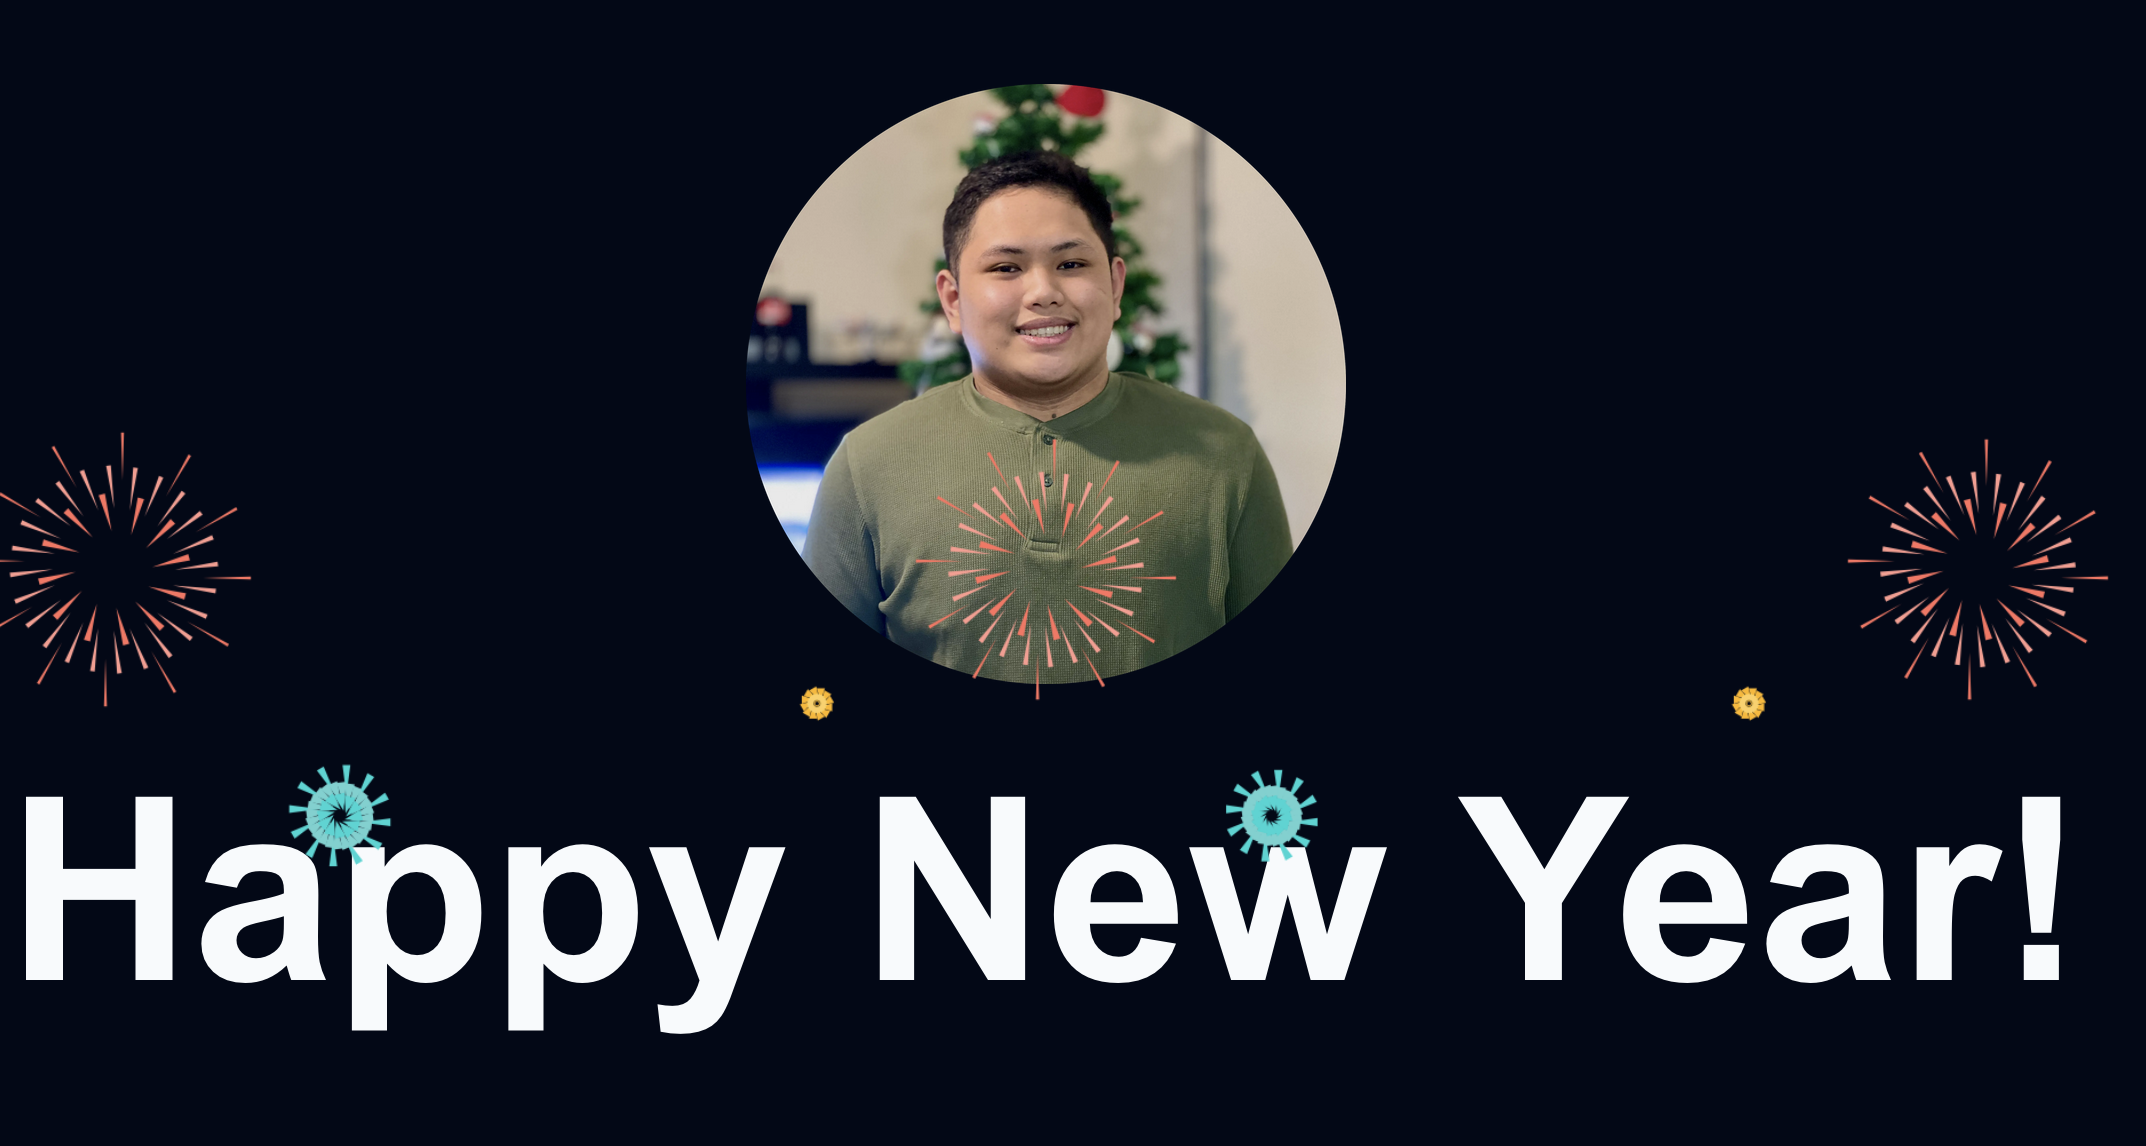
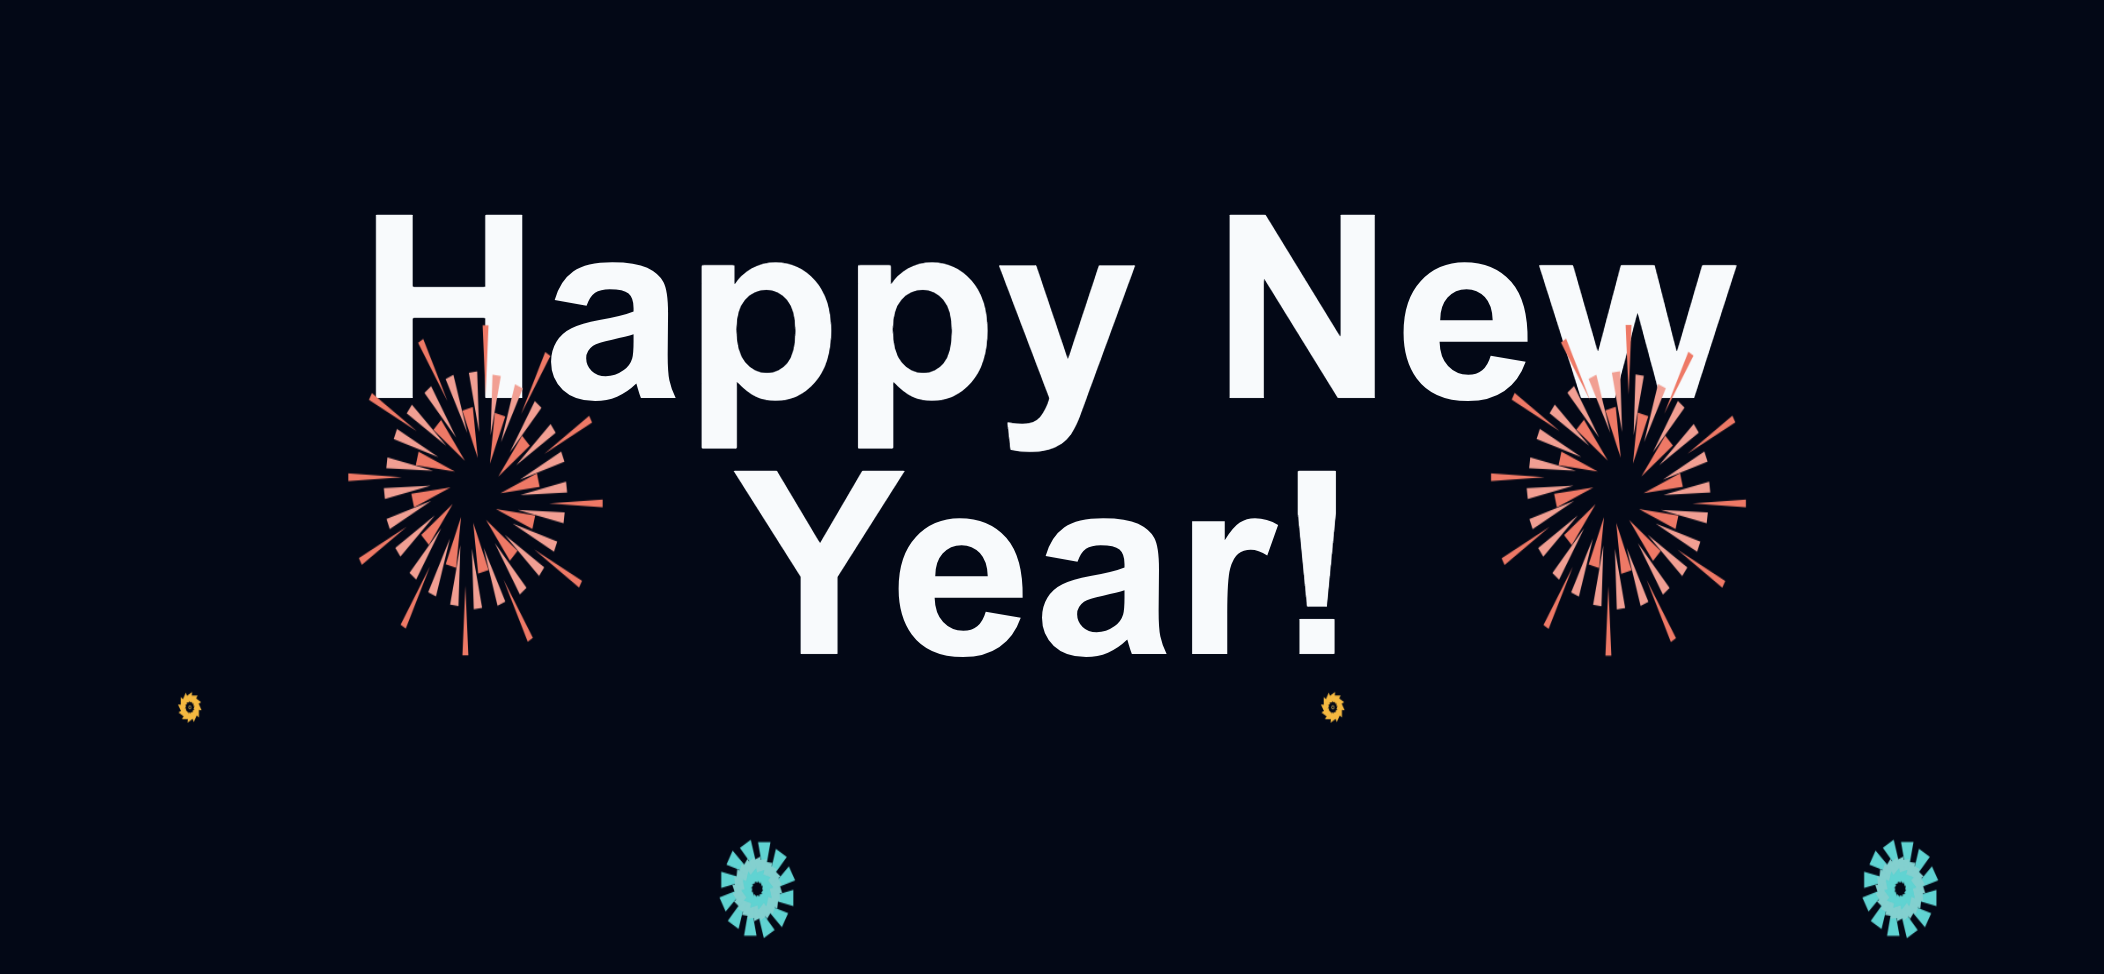
refactor homepage layout and remove unused image import

diff --git a/app/page.tsx b/app/page.tsx
@@ -1,6 +1,4 @@
 'use client'
-import Image from "next/image";
-import profile from "./icon.png"
 import { DotLottieReact } from '@lottiefiles/dotlottie-react';
 import fireworks from './fireworks.json';
 import Link from "next/link";
@@ -8,29 +6,16 @@ import Link from "next/link";
 export default function Home() {
   return (
     <main id="hero" className="container flex justify-center items-center h-screen">
-      <div className="flex flex-col items-center gap-10">
-        <Image src={profile} alt='R' className="w-[300px] h-[300px]" />
+      <div className="flex flex-col items-center gap-80">
         <h1 className="text-6xl md:text-8xl lg:text-9xl font-bold text-center">Happy New Year!</h1>
         <div id="links" className="flex gap-5 z-50">
           <Link href="https://rickyadriell.com" className="font-bold">
-            Home
-          </Link>
-          <span>|</span>
-          <Link href="https://github.com/rickyadriell" className="font-bold">
-            GitHub
-          </Link>
-          <span>|</span>
-          <Link href="https://linkedin.com/in/rickyadriell/" className="font-bold">
-            Linkedin
-          </Link>
-          <span>|</span>
-          <Link href="https://instagram.com/codecplyre" className="font-bold">
-            Instagram
+            Ricky Adriell
           </Link>
         </div>
       </div>
-      <div className="flex gap-10 absolute bottom-0 h-3/4">
-        {[...Array(3)].map((_, i) => (
+      <div className="flex gap-10 absolute bottom-0 h-full">
+        {[...Array(2)].map((_, i) => (
           <DotLottieReact
 
             key={i}
